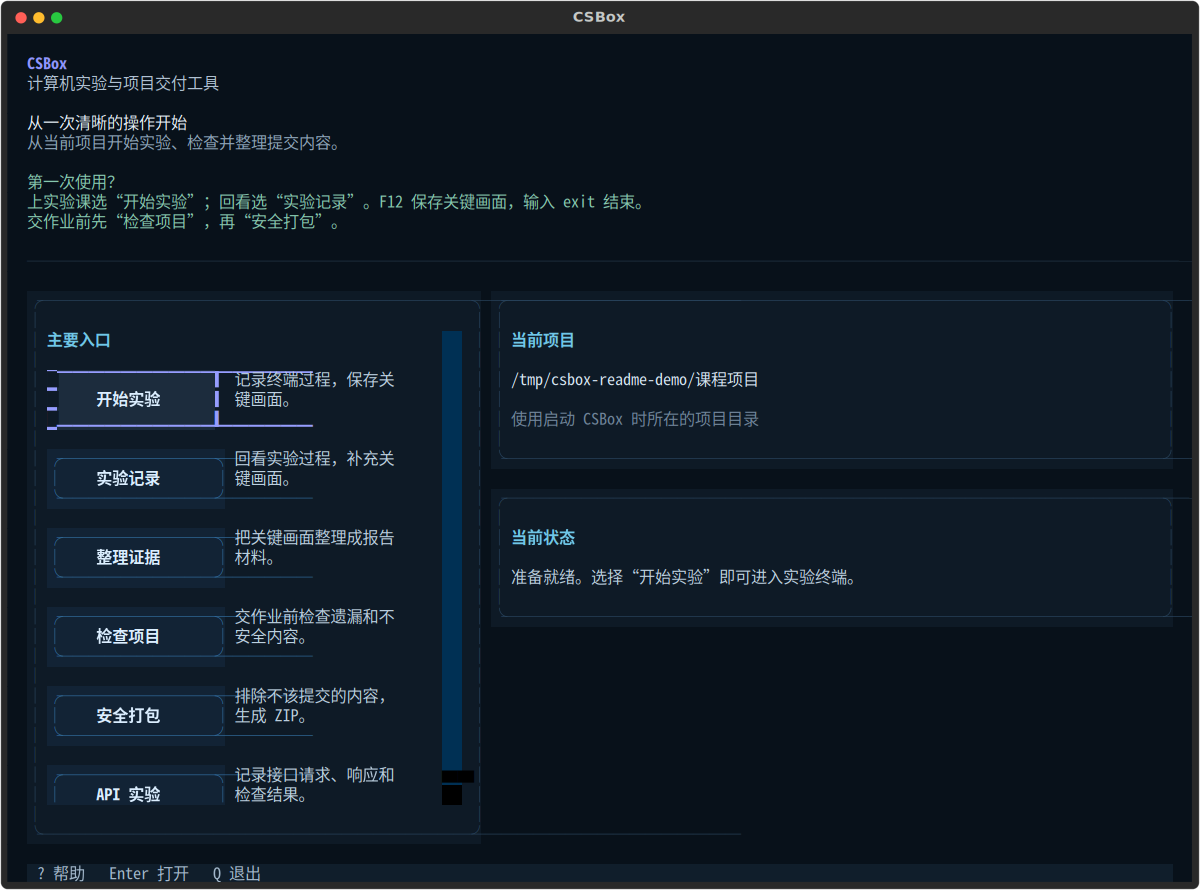
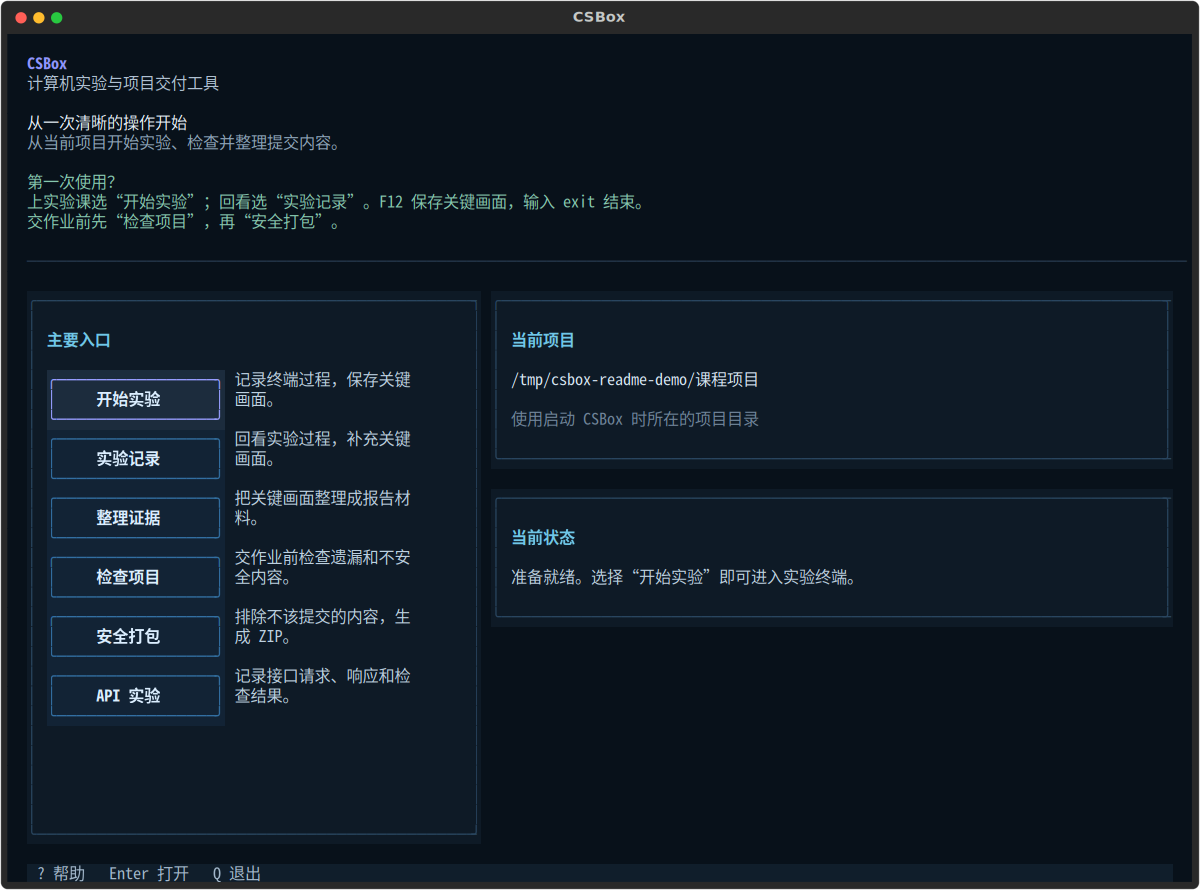
publish: fix: remove TUI screenshot artifacts

diff --git a/tests/test_readme_screenshots.py b/tests/test_readme_screenshots.py
@@ -5,6 +5,9 @@ import os
 import sys
 from pathlib import Path
 
+import pytest
+from textual.color import Color
+
 from csbox.locales import load_locale
 from csbox.tui.app import CSBoxApp
 
@@ -34,3 +37,100 @@ def test_readme_screenshot_color_environment_overrides_no_color(monkeypatch) -> 
         assert app.no_color is False
 
     assert os.environ["NO_COLOR"] == "1"
+
+
+@pytest.mark.asyncio
+async def test_home_readme_viewport_has_no_entry_overflow_or_scrollbar_artifacts() -> None:
+    app = CSBoxApp(
+        data_source=_TOOL.DemoHomeDataSource(),
+        environment=_TOOL.environment(),
+        locale=load_locale(),
+    )
+
+    async with app.run_test(size=_TOOL.HOME_SIZE) as pilot:
+        await pilot.pause()
+
+        action_panel = app.screen.query_one("#action-panel")
+        assert len(app.screen.query(".entry-card")) == 6
+        assert action_panel.max_scroll_y == 0
+        assert action_panel.show_vertical_scrollbar is False
+        assert app.screen.query_one("#entry-start").styles.border.top[0] == "round"
+
+        layout = app.screen._compositor.render_update(
+            full=True,
+            screen_stack=app._background_screens,
+            simplify=False,
+        )
+        action_rows = (
+            layout.strips[y].crop(action_panel.region.x, action_panel.region.right).text
+            for y in range(action_panel.region.y, action_panel.region.bottom)
+        )
+        rendered_action_panel = "\n".join(action_rows)
+        assert not any(marker in rendered_action_panel for marker in ("▔", "▁", "▆"))
+
+
+@pytest.mark.asyncio
+async def test_help_readme_viewport_uses_a_non_black_scrollbar_track() -> None:
+    app = CSBoxApp(
+        data_source=_TOOL.DemoHomeDataSource(),
+        environment=_TOOL.environment(),
+        locale=load_locale(),
+    )
+
+    async with app.run_test(size=_TOOL.HOME_SIZE) as pilot:
+        await pilot.pause()
+        await pilot.press("?")
+        await pilot.pause()
+
+        scroll = app.screen.query_one("#help-scroll")
+        assert scroll.styles.scrollbar_background == Color(16, 28, 41)
+        assert scroll.styles.scrollbar_color == Color(50, 111, 162)
+
+
+@pytest.mark.asyncio
+async def test_review_readme_viewport_gives_the_terminal_pane_full_height(
+    tmp_path: Path,
+) -> None:
+    app = _TOOL.ReviewApp(
+        controller=_TOOL.ReviewController.from_session(_TOOL.make_review_session(tmp_path)),
+        locale=load_locale(),
+    )
+
+    async with app.run_test(size=_TOOL.REVIEW_SIZE) as pilot:
+        await pilot.pause()
+        body = app.screen.query_one("#review-body")
+        terminal = app.screen.query_one("#review-terminal")
+        assert terminal.region.height == body.region.height
+
+
+@pytest.mark.asyncio
+async def test_readme_home_svg_export_is_deterministic() -> None:
+    app = CSBoxApp(
+        data_source=_TOOL.DemoHomeDataSource(),
+        environment=_TOOL.environment(),
+        locale=load_locale(),
+    )
+
+    async with app.run_test(size=_TOOL.HOME_SIZE) as pilot:
+        await pilot.pause()
+        first = _TOOL.prepare_svg_for_png(app.export_screenshot())
+        second = _TOOL.prepare_svg_for_png(app.export_screenshot())
+        assert first == second
+
+
+def test_readme_png_font_preparation_keeps_terminal_borders_bounded() -> None:
+    svg = (
+        "<style>font-family: Fira Code, monospace;</style>"
+        '<text class="border">╭────────────────╮</text>'
+        '<text class="content">CSBox 帮助</text>'
+        '<text class="scrollbar">▆▆</text>'
+    )
+
+    prepared = _TOOL.prepare_svg_for_png(svg)
+
+    assert 'font-family: "Noto Sans Mono CJK SC", "Noto Sans CJK SC", sans-serif;' in prepared
+    assert (
+        '<text class="border" font-family="Fira Code, monospace">╭────────────────╮</text>'
+    ) in prepared
+    assert '<text class="scrollbar" font-family="Fira Code, monospace">▆▆</text>' in prepared
+    assert '<text class="content">CSBox 帮助</text>' in prepared

diff --git a/docs/tests/tooling/generate_readme_screenshots.py b/docs/tests/tooling/generate_readme_screenshots.py
@@ -7,8 +7,10 @@ render; CairoSVG turns that render into a CJK-readable PNG for GitHub.
 from __future__ import annotations
 
 import asyncio
+import html
 import json
 import os
+import re
 import tempfile
 from contextlib import contextmanager
 from dataclasses import replace
@@ -29,6 +31,8 @@ ROOT = Path(__file__).resolve().parents[3]
 OUTPUT = ROOT / "docs" / "assets" / "readme"
 HOME_SIZE = (120, 43)
 REVIEW_SIZE = (120, 35)
+_BOX_DRAWING_GLYPHS = frozenset("─━│┃┌┐└┘├┤┬┴┼╭╮╰╯═║╔╗╚╝╠╣╦╩╬▁▂▃▄▅▆▇▉▊▋▌▍▎▏▔ ")
+_SVG_TEXT = re.compile(r"(<text\b[^>]*>)(.*?)(</text>)", re.DOTALL)
 
 
 @contextmanager
@@ -43,6 +47,29 @@ def screenshot_color_environment():
             os.environ.pop("NO_COLOR", None)
         else:
             os.environ["NO_COLOR"] = previous
+
+
+def prepare_svg_for_png(svg: str) -> str:
+    """Use CJK glyphs for content and a narrow face for terminal borders."""
+
+    prepared = svg.replace(
+        "font-family: Fira Code, monospace;",
+        'font-family: "Noto Sans Mono CJK SC", "Noto Sans CJK SC", sans-serif;',
+    )
+
+    def keep_terminal_font(match: re.Match[str]) -> str:
+        content = html.unescape(match.group(2)).replace("\xa0", " ")
+        content = content.replace("\n", "").replace("\r", "")
+        if not content.strip() or not all(
+            character in _BOX_DRAWING_GLYPHS for character in content
+        ):
+            return match.group(0)
+        opening = match.group(1)
+        if "font-family=" not in opening:
+            opening = f'{opening[:-1]} font-family="Fira Code, monospace">'
+        return f"{opening}{match.group(2)}{match.group(3)}"
+
+    return _SVG_TEXT.sub(keep_terminal_font, prepared)
 
 
 class DemoHomeDataSource(FakeHomeDataSource):
@@ -163,10 +190,7 @@ def write_png(app: CSBoxApp | ReviewApp, destination: Path) -> None:
 
     # Textual's export uses Fira Code, which intentionally has no CJK glyphs.
     # The existing Linux CI image provides Noto CJK fonts for the same reason.
-    svg = app.export_screenshot().replace(
-        "font-family: Fira Code, monospace;",
-        'font-family: "Noto Sans Mono CJK SC", "Noto Sans CJK SC", sans-serif;',
-    )
+    svg = prepare_svg_for_png(app.export_screenshot())
     cairosvg.svg2png(
         bytestring=svg.encode("utf-8"),
         write_to=str(destination),
